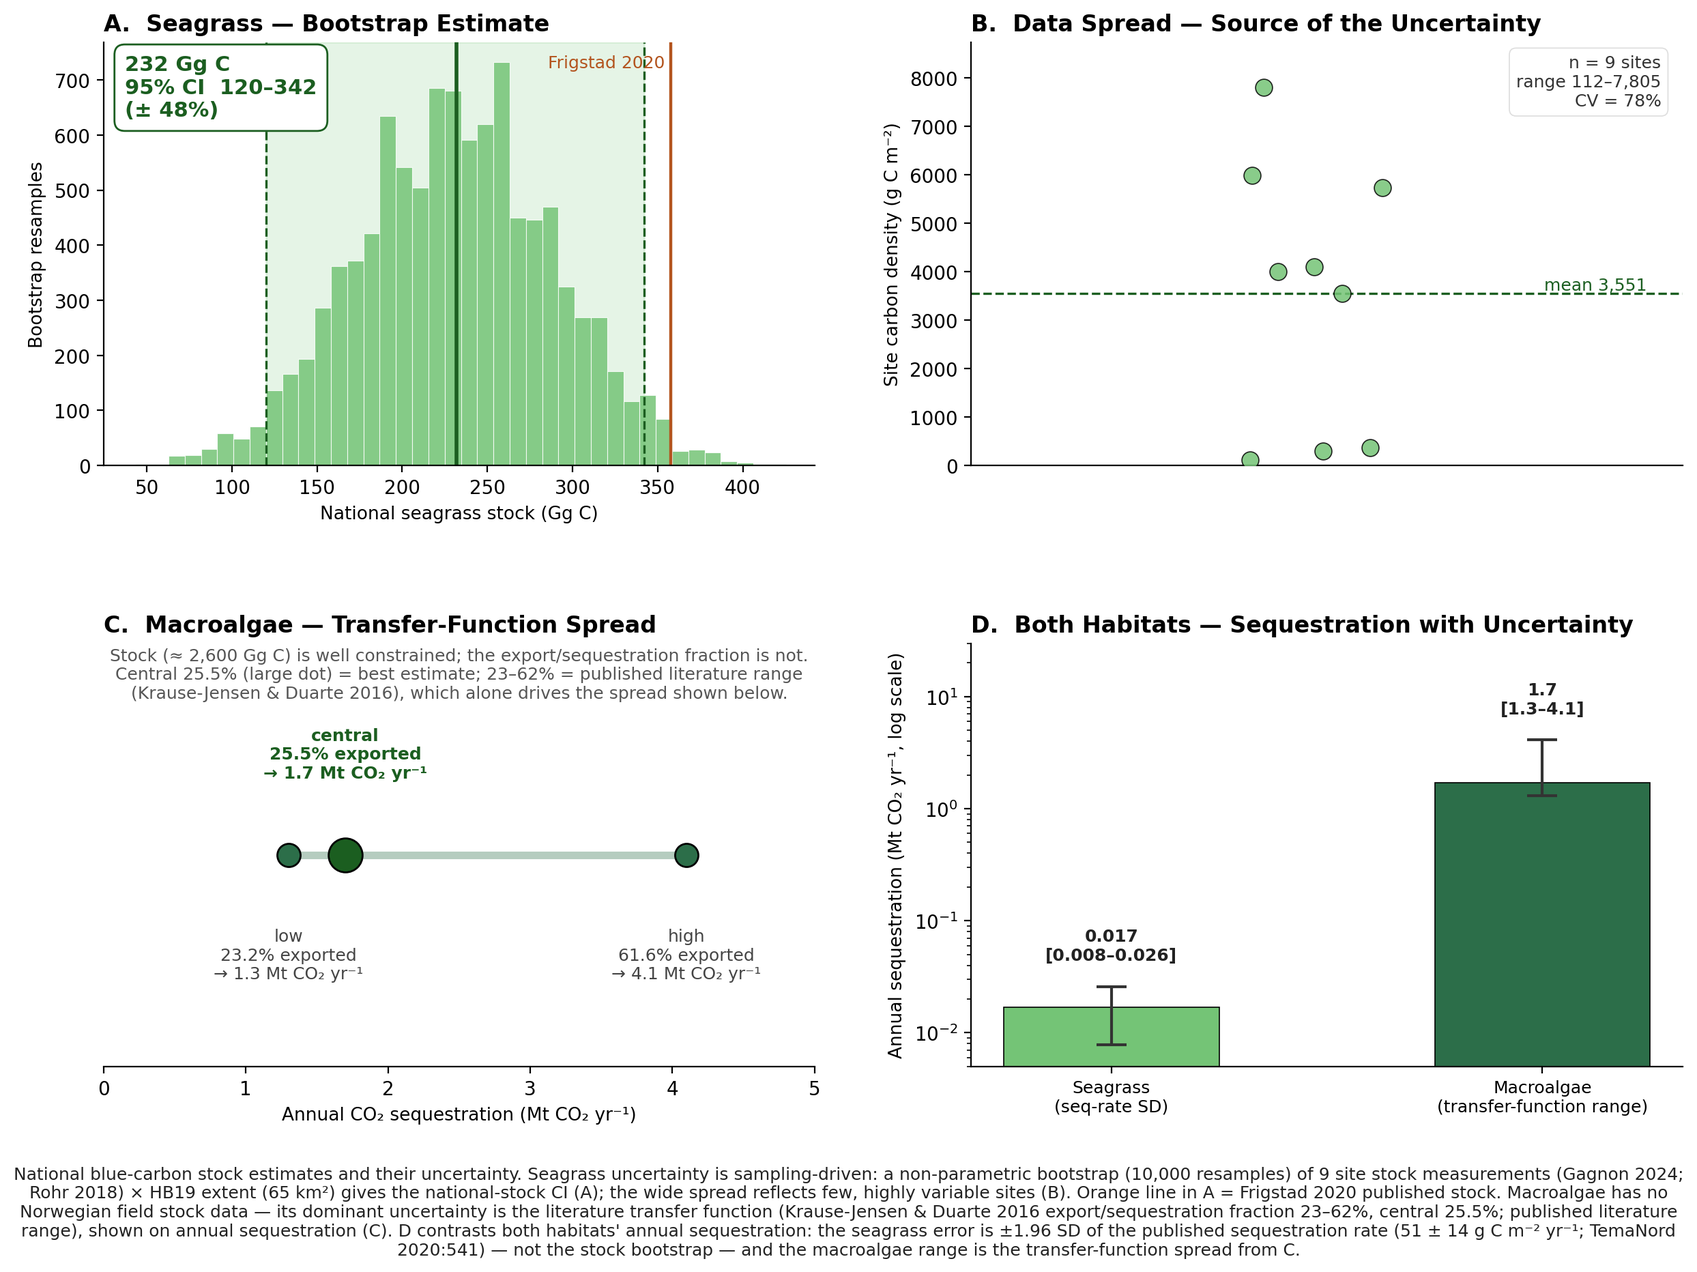
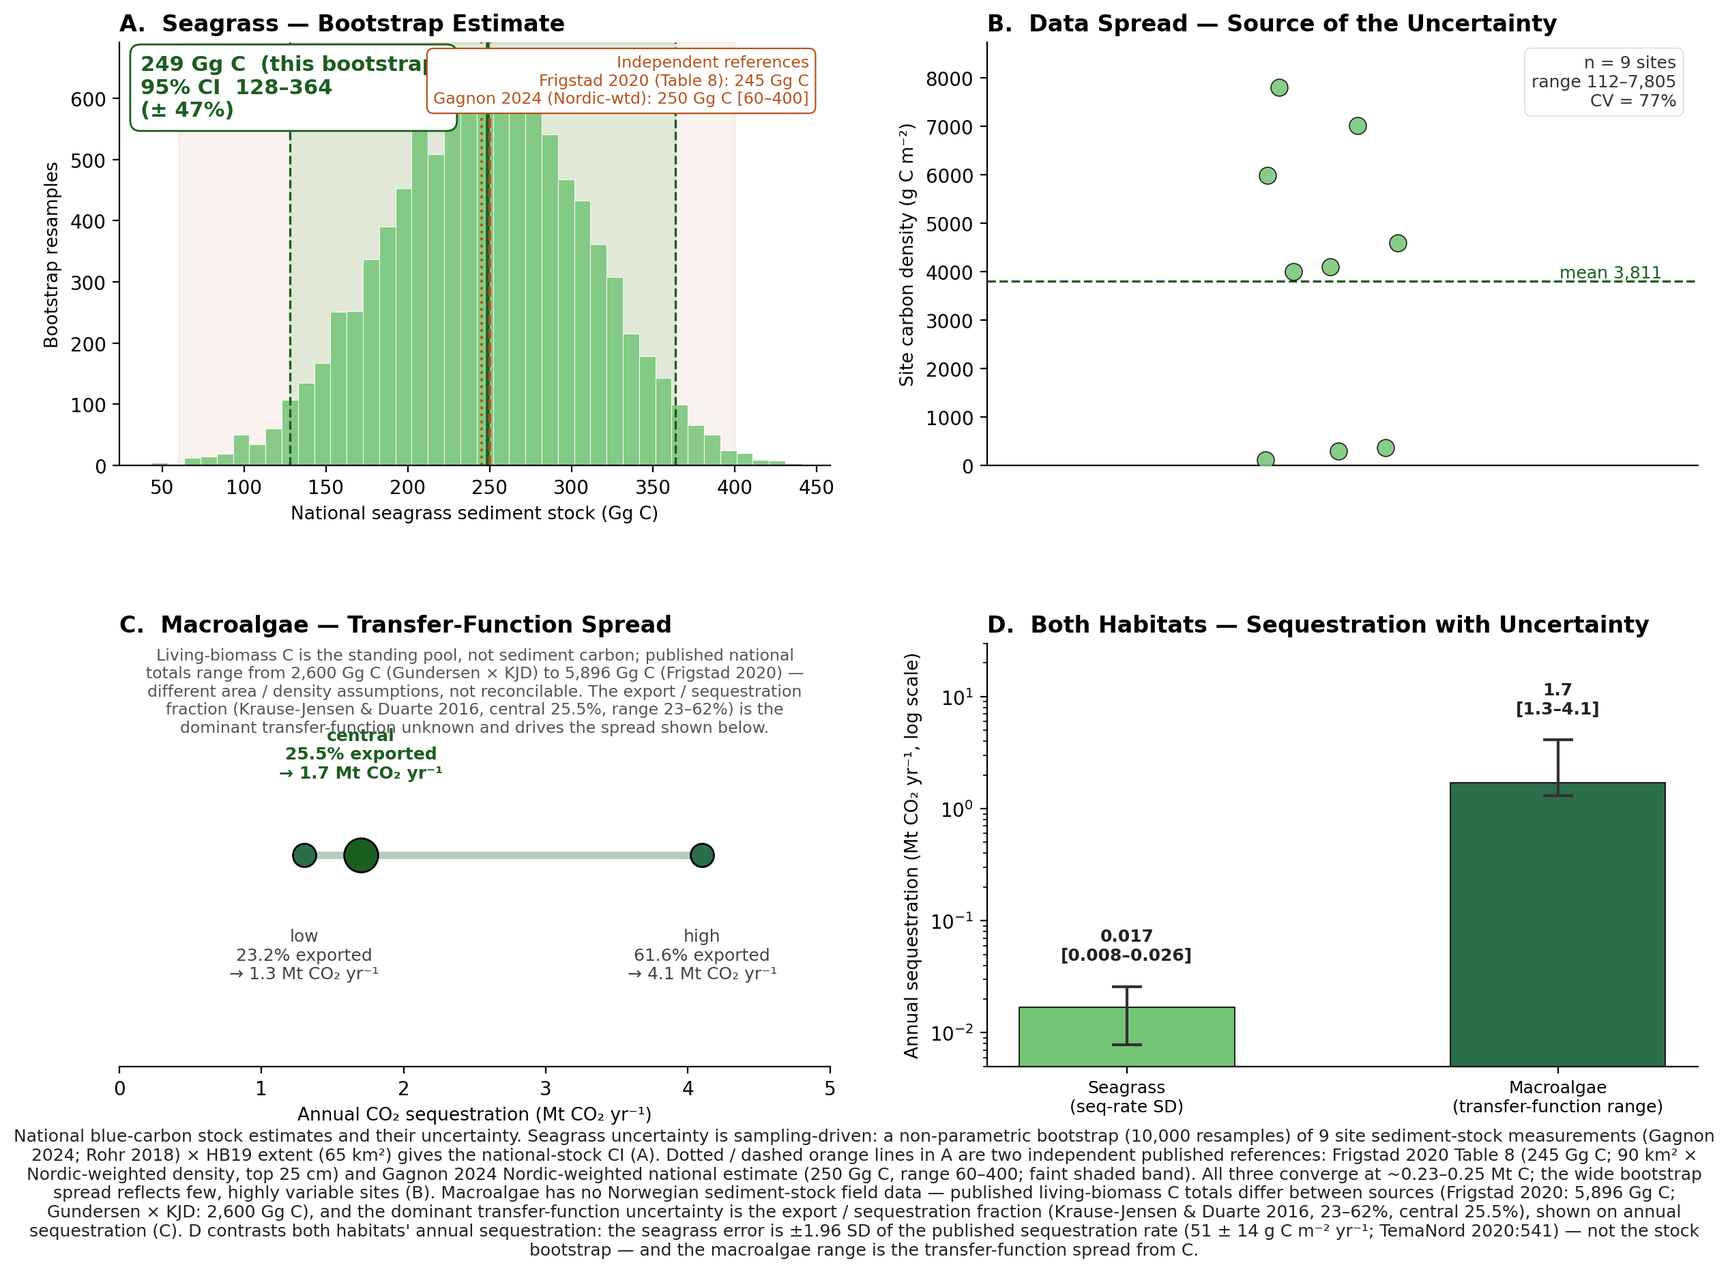
Fix carbon-pool attribution in fig09 + fig11
Two errors corrected:

(1) Seagrass sediment stock. The 357.6 Gg C value attributed to
'Frigstad 2020' in figs 2/3 is a bottom-up calculation from this
study (Gagnon pooled mean × 90 km²); 357.6 appears nowhere in
Frigstad. Frigstad 2020 Table 8 actually reports 245 Gg C
(Nordic-weighted density × 90 km², top 25 cm). The bootstrap headline
(248.9 Gg C [128–364]) lands on Frigstad's real 245 and on Gagnon
2024's independent Nordic-weighted national estimate (250 Gg C,
range 60–400) — three-way triangulation at ~0.23–0.25 Mt C.
Fig 09 panel A now shows the bootstrap as the headline with
Frigstad / Gagnon as independent reference lines; fig 11 panel A
uses the bootstrap headline with the same two references.

(2) Macroalgae stock. The 2,600 Gg C value was Gundersen 2021 area
× Krause-Jensen & Duarte 2016 transfer function, an areal proxy
that is not reconcilable with Frigstad 2020's living-biomass total
(5,896 Gg C = kelp 4,969 + rockweed 927) — different area layer,
different biomass-density assumptions. Frigstad is now the primary
macroalgae headline, explicitly labeled 'living biomass C' (not
sediment stock); the Gundersen × KJD value is retained as an
alternative areal reference. Fig 09 panel C text and fig 11 panel
A title + labels updated to make the distinction explicit.

Regional macroalgae disaggregation in carbon_stock_estimates.csv
still uses the Gundersen areal density because no per-region split
exists for Frigstad's national living-biomass total; this is now
[…]

diff --git a/scripts/figure_carbon_stocks.py b/scripts/figure_carbon_stocks.py
@@ -55,9 +55,22 @@ SEAGRASS_EXTENT_KM2_MODELED = 90.0
 # Gundersen 2021 macroalgae national modelled extent (km^2).
 MACROALGAE_EXTENT_KM2_GUNDERSEN = 5355.0
 
-# Macroalgae national stock (kt C). From step2_national_sequestration.csv:
-# Krause-Jensen & Duarte 2016 transfer function * Gundersen 2021 area.
-MACROALGAE_NATIONAL_STOCK_KT_C = 2600.0
+# Published seagrass sediment-stock benchmarks (Gg C, top 50/25 cm at source).
+# Used as independent reference points against the bootstrap, NOT as the headline.
+SEAGRASS_STOCK_FRIGSTAD_GG_C = 245.0        # Frigstad 2020 Table 8: 90 km² x ~2,722 g C m-2 Nordic-weighted, top 25 cm
+SEAGRASS_STOCK_GAGNON_GG_C = 250.0          # Gagnon 2024 Nordic-weighted national: 0.25 Mt C
+SEAGRASS_STOCK_GAGNON_RANGE_GG_C = (60.0, 400.0)  # Gagnon 2024 published range
+
+# Macroalgae national LIVING-BIOMASS stock (Gg C). Primary source:
+# Frigstad 2020 (kelp 4,969 + rockweed 927 = 5,896 Gg C). This is biomass C,
+# not sediment carbon stock — the two cannot be combined.
+MACROALGAE_LIVING_BIOMASS_FRIGSTAD_GG_C = 5896.0
+MACROALGAE_LIVING_BIOMASS_KELP_GG_C = 4969.0
+MACROALGAE_LIVING_BIOMASS_ROCKWEED_GG_C = 927.0
+# Alternative reference: Gundersen 2021 extent × Krause-Jensen & Duarte 2016
+# transfer function = 2,600 Gg C (different area + density assumptions; shown
+# for context only).
+MACROALGAE_LIVING_BIOMASS_GUNDERSEN_GG_C = 2600.0
 MACROALGAE_SEQ_MT_CO2_YR = 1.7
 MACROALGAE_SEQ_MT_CO2_YR_RANGE = (0.36 * 44 / 12 * 1.0,
                                   4.1 * 44 / 12 * 1.0 / 10)  # placeholder; see step2
@@ -159,7 +172,12 @@ def fig09_bootstrap(sg: pd.DataFrame, hb19: pd.DataFrame, out: Path) -> dict:
     fig, axes = plt.subplots(2, 2, figsize=(13, 9.5))
     xs = np.arange(2)
 
-    # (A) Seagrass bootstrap distribution
+    # (A) Seagrass bootstrap distribution.
+    # Two independent published benchmarks shown as reference lines: Frigstad
+    # 2020 Table 8 (245 Gg C; 90 km² × ~2,722 g C m⁻² Nordic-weighted, top 25 cm)
+    # and Gagnon 2024 Nordic-weighted national estimate (250 Gg C, range 60–400).
+    # The bootstrap (this study) is the headline; the references show three-way
+    # triangulation at ~0.23–0.25 Mt C.
     ax = axes[0, 0]
     ax.hist(national_kt_c, bins=40, color=sg_color, alpha=0.85,
             edgecolor="white", linewidth=0.4)
@@ -168,17 +186,33 @@ def fig09_bootstrap(sg: pd.DataFrame, hb19: pd.DataFrame, out: Path) -> dict:
     ax.axvline(median, color=dark, linewidth=2.0)
     for v in (ci_low, ci_high):
         ax.axvline(v, color=dark, linestyle="--", linewidth=1.2)
-    ax.axvline(357.6, color=pub_color, linewidth=1.6)
-    ax.set_xlim(right=max(float(national_kt_c.max()), 357.6) * 1.04)
+    # Gagnon Nordic-weighted range as a faint shaded band; Frigstad + Gagnon
+    # central estimates as thin reference lines (they fall ~5 Gg C apart).
+    gag_lo, gag_hi = SEAGRASS_STOCK_GAGNON_RANGE_GG_C
+    ax.axvspan(gag_lo, gag_hi, color=pub_color, alpha=0.07, zorder=0)
+    ax.axvline(SEAGRASS_STOCK_FRIGSTAD_GG_C, color=pub_color,
+               linewidth=1.4, linestyle=":")
+    ax.axvline(SEAGRASS_STOCK_GAGNON_GG_C, color=pub_color,
+               linewidth=1.4, linestyle="--")
+    ax.set_xlim(right=max(float(national_kt_c.max()),
+                          SEAGRASS_STOCK_GAGNON_RANGE_GG_C[1]) * 1.04)
     ax.text(0.03, 0.97,
-            f"{median:,.0f} Gg C\n95% CI  {ci_low:,.0f}–{ci_high:,.0f}\n"
+            f"{median:,.0f} Gg C  (this bootstrap)\n95% CI  {ci_low:,.0f}–{ci_high:,.0f}\n"
             f"(± {(ci_high - ci_low) / 2 / median * 100:.0f}%)",
             transform=ax.transAxes, va="top", ha="left", fontsize=11,
             fontweight="bold", color=dark,
             bbox=dict(facecolor="white", edgecolor=dark, boxstyle="round,pad=0.5", linewidth=1.0))
-    ax.text(357.6, ymax_a * 0.97, "Frigstad 2020 ", color=pub_color,
-            fontsize=9, ha="right", va="top")
-    ax.set_xlabel("National seagrass stock (Gg C)", fontsize=9.5)
+    # Reference-line labels stacked top-right so they don't collide with the headline box.
+    ax.text(0.97, 0.97,
+            f"Independent references\n"
+            f"Frigstad 2020 (Table 8): {SEAGRASS_STOCK_FRIGSTAD_GG_C:.0f} Gg C\n"
+            f"Gagnon 2024 (Nordic-wtd): {SEAGRASS_STOCK_GAGNON_GG_C:.0f} Gg C "
+            f"[{gag_lo:.0f}–{gag_hi:.0f}]",
+            transform=ax.transAxes, va="top", ha="right", fontsize=8.5,
+            color=pub_color,
+            bbox=dict(facecolor="white", edgecolor=pub_color,
+                      boxstyle="round,pad=0.4", linewidth=0.8))
+    ax.set_xlabel("National seagrass sediment stock (Gg C)", fontsize=9.5)
     ax.set_ylabel("Bootstrap resamples", fontsize=9.5)
     ax.set_title("A.  Seagrass — Bootstrap Estimate", loc="left",
                  fontweight="bold", fontsize=12)
@@ -237,10 +271,12 @@ def fig09_bootstrap(sg: pd.DataFrame, hb19: pd.DataFrame, out: Path) -> dict:
     ax.set_title("C.  Macroalgae — Transfer-Function Spread", loc="left",
                  fontweight="bold", fontsize=12)
     ax.text(0.5, 0.99,
-            "Stock (≈ 2,600 Gg C) is well constrained; the export/sequestration fraction is not.\n"
-            "Central 25.5% (large dot) = best estimate; 23–62% = published literature range\n"
-            "(Krause-Jensen & Duarte 2016), which alone drives the spread shown below.",
-            transform=ax.transAxes, va="top", ha="center", fontsize=9, color="#555")
+            "Living-biomass C is the standing pool, not sediment carbon; published national\n"
+            "totals range from 2,600 Gg C (Gundersen × KJD) to 5,896 Gg C (Frigstad 2020) —\n"
+            "different area / density assumptions, not reconcilable. The export / sequestration\n"
+            "fraction (Krause-Jensen & Duarte 2016, central 25.5%, range 23–62%) is the\n"
+            "dominant transfer-function unknown and drives the spread shown below.",
+            transform=ax.transAxes, va="top", ha="center", fontsize=8.5, color="#555")
     ax.spines["left"].set_visible(False)
     _clean(ax)
 
@@ -274,15 +310,20 @@ def fig09_bootstrap(sg: pd.DataFrame, hb19: pd.DataFrame, out: Path) -> dict:
     add_caption(
         fig,
         f"National blue-carbon stock estimates and their uncertainty. Seagrass uncertainty is sampling-driven: "
-        f"a non-parametric bootstrap ({BOOTSTRAP_N:,} resamples) of {len(site_vals)} site stock measurements "
-        f"(Gagnon 2024; Rohr 2018) × HB19 extent ({seagrass_extent_km2:.0f} km²) gives the national-stock CI (A); "
-        "the wide spread reflects few, highly variable sites (B). Orange line in A = Frigstad 2020 published stock. "
-        "Macroalgae has no Norwegian field stock data — its dominant uncertainty is the literature transfer "
-        f"function (Krause-Jensen & Duarte 2016 export/sequestration fraction {frac_lo:.0f}–{frac_hi:.0f}%, central "
-        f"{frac_mid:.1f}%; published literature range), shown on annual sequestration (C). D contrasts both habitats' "
-        "annual sequestration: the seagrass error is ±1.96 SD of the published sequestration rate (51 ± 14 g C m⁻² "
-        "yr⁻¹; TemaNord 2020:541) — not the stock bootstrap — and the macroalgae range is the transfer-function "
-        "spread from C.",
+        f"a non-parametric bootstrap ({BOOTSTRAP_N:,} resamples) of {len(site_vals)} site sediment-stock "
+        f"measurements (Gagnon 2024; Rohr 2018) × HB19 extent ({seagrass_extent_km2:.0f} km²) gives the "
+        f"national-stock CI (A). Dotted / dashed orange lines in A are two independent published references: "
+        f"Frigstad 2020 Table 8 ({SEAGRASS_STOCK_FRIGSTAD_GG_C:.0f} Gg C; 90 km² × Nordic-weighted density, top "
+        f"25 cm) and Gagnon 2024 Nordic-weighted national estimate ({SEAGRASS_STOCK_GAGNON_GG_C:.0f} Gg C, range "
+        f"{SEAGRASS_STOCK_GAGNON_RANGE_GG_C[0]:.0f}–{SEAGRASS_STOCK_GAGNON_RANGE_GG_C[1]:.0f}; faint shaded band). "
+        "All three converge at ~0.23–0.25 Mt C; the wide bootstrap spread reflects few, highly variable sites (B). "
+        "Macroalgae has no Norwegian sediment-stock field data — published living-biomass C totals differ between "
+        f"sources (Frigstad 2020: {MACROALGAE_LIVING_BIOMASS_FRIGSTAD_GG_C:,.0f} Gg C; Gundersen × KJD: "
+        f"{MACROALGAE_LIVING_BIOMASS_GUNDERSEN_GG_C:,.0f} Gg C), and the dominant transfer-function uncertainty is "
+        f"the export / sequestration fraction (Krause-Jensen & Duarte 2016, {frac_lo:.0f}–{frac_hi:.0f}%, central "
+        f"{frac_mid:.1f}%), shown on annual sequestration (C). D contrasts both habitats' annual sequestration: "
+        "the seagrass error is ±1.96 SD of the published sequestration rate (51 ± 14 g C m⁻² yr⁻¹; TemaNord "
+        "2020:541) — not the stock bootstrap — and the macroalgae range is the transfer-function spread from C.",
         y=0.012, fontsize=9)
     fig.subplots_adjust(left=0.08, right=0.97, top=0.95, bottom=0.16, hspace=0.42, wspace=0.22)
     fig.savefig(out, dpi=200, bbox_inches="tight")
@@ -299,17 +340,26 @@ def fig09_bootstrap(sg: pd.DataFrame, hb19: pd.DataFrame, out: Path) -> dict:
 # ---------------------------------------------------------------------------
 # fig11: balance sheet
 # ---------------------------------------------------------------------------
-def fig11_balance_sheet(sg: pd.DataFrame, hb19: pd.DataFrame, out: Path) -> None:
+def fig11_balance_sheet(sg: pd.DataFrame, hb19: pd.DataFrame,
+                        bootstrap_summary: dict, out: Path) -> None:
     sg_color, ma_color = ECO_COLORS["seagrass"], ECO_COLORS["macroalgae"]
+    pub_color, dark = "#b3541e", "#1b5e20"
 
-    # National carbon stocks from the published sources (Gg C), not a bootstrap:
-    #   seagrass   - Frigstad 2020 national estimate
-    #   macroalgae - Gundersen 2021 extent x Krause-Jensen & Duarte 2016 transfer fn
+    # National carbon-pool headlines (Gg C):
+    #   seagrass   - SEDIMENT stock from this study's bootstrap (Gagnon 2024;
+    #                Rohr 2018 × HB19 extent), with Frigstad 2020 Table 8
+    #                (245) and Gagnon 2024 Nordic-weighted (250 [60-400])
+    #                shown as independent triangulation.
+    #   macroalgae - LIVING BIOMASS C, not sediment stock. Frigstad 2020 is the
+    #                primary headline (kelp 4,969 + rockweed 927 = 5,896 Gg C);
+    #                Gundersen × KJD areal (2,600 Gg C) is a non-reconcilable
+    #                alternative based on different area + density assumptions.
+    sg_stock_gg = float(bootstrap_summary["pooled_median_kt_c"])
+    sg_stock_lo = float(bootstrap_summary["pooled_ci_low"])
+    sg_stock_hi = float(bootstrap_summary["pooled_ci_high"])
+    ma_stock_gg = MACROALGAE_LIVING_BIOMASS_FRIGSTAD_GG_C
+    ma_alt_gg = MACROALGAE_LIVING_BIOMASS_GUNDERSEN_GG_C
     nat = load_national_seq().set_index("ecosystem")
-    sg_stock_gg = float(nat.loc["seagrass", "stock_gg_c"])
-    ma_stock_gg = float(nat.loc["macroalgae", "stock_gg_c"])
-    ma_stock_lo = float(nat.loc["macroalgae", "stock_mt_c_ci_low"]) * 1000.0
-    ma_stock_hi = float(nat.loc["macroalgae", "stock_mt_c_ci_high"]) * 1000.0
 
     # Regional seagrass stock = regional mean sediment density (Gagnon 2024;
     # Rohr 2018, by region) x HB19 mapped seagrass area for that region.
@@ -333,21 +383,59 @@ def fig11_balance_sheet(sg: pd.DataFrame, hb19: pd.DataFrame, out: Path) -> None
         ax.spines["top"].set_visible(False)
         ax.spines["right"].set_visible(False)
 
-    # (A) National carbon stock — published source values
+    # (A) National carbon pool — sediment (seagrass) vs living biomass (macroalgae).
+    # NOTE: the two bars are NOT directly comparable: seagrass is a sediment
+    # carbon stock (long-term storage); macroalgae is standing-biomass C
+    # (annual turnover pool). The panel title and labels say so explicitly.
     ax = axes[0, 0]
     stocks = [sg_stock_gg, ma_stock_gg]
-    yerr = [[0.0, ma_stock_gg - ma_stock_lo], [0.0, ma_stock_hi - ma_stock_gg]]
+    yerr = [[sg_stock_gg - sg_stock_lo, 0.0], [sg_stock_hi - sg_stock_gg, 0.0]]
     bars = ax.bar(eco, stocks, yerr=yerr, capsize=6, color=eco_cols,
-                  edgecolor="black", linewidth=0.6)
+                  edgecolor="black", linewidth=0.6,
+                  error_kw=dict(elinewidth=1.4, capthick=1.4, ecolor="#333"))
     ax.set_yscale("log")
-    ax.set_ylim(top=ma_stock_gg * 5)
-    for b, lbl in zip(bars,
-                      [f"{sg_stock_gg:,.0f} Gg C\n(Frigstad 2020)",
-                       f"{ma_stock_gg:,.0f} Gg C\n[{ma_stock_lo:,.0f}–{ma_stock_hi:,.0f}]"]):
-        ax.text(b.get_x() + b.get_width() / 2, b.get_height() * 1.35, lbl,
-                ha="center", va="bottom", fontsize=9)
-    ax.set_ylabel("Stored carbon (Gg C, log scale)", fontsize=9.5)
-    ax.set_title("A.  National Carbon Stock", loc="left", fontweight="bold", fontsize=12)
+    ax.set_ylim(top=ma_stock_gg * 6)
+    # Bar value labels: bootstrap headline for seagrass; Frigstad breakdown for macroalgae.
+    labels = [
+        (f"{sg_stock_gg:,.0f} Gg C  (this bootstrap)\n"
+         f"95% CI  {sg_stock_lo:,.0f}–{sg_stock_hi:,.0f}\n"
+         f"Sediment stock"),
+        (f"{ma_stock_gg:,.0f} Gg C  (Frigstad 2020)\n"
+         f"kelp {MACROALGAE_LIVING_BIOMASS_KELP_GG_C:,.0f} + rockweed "
+         f"{MACROALGAE_LIVING_BIOMASS_ROCKWEED_GG_C:,.0f}\n"
+         f"Living biomass"),
+    ]
+    label_tops = [sg_stock_hi, ma_stock_gg]
+    for b, lbl, top in zip(bars, labels, label_tops):
+        ax.text(b.get_x() + b.get_width() / 2, top * 1.35,
+                lbl, ha="center", va="bottom", fontsize=8.5)
+    # Independent reference lines: Frigstad/Gagnon for seagrass (just above
+    # bar 0); Gundersen × KJD alternative for macroalgae (just above bar 1).
+    bar0_x = bars[0].get_x()
+    bar0_w = bars[0].get_width()
+    ax.hlines(SEAGRASS_STOCK_FRIGSTAD_GG_C,
+              bar0_x - 0.03, bar0_x + bar0_w + 0.03,
+              color=pub_color, linewidth=1.4, linestyle=":")
+    ax.hlines(SEAGRASS_STOCK_GAGNON_GG_C,
+              bar0_x - 0.03, bar0_x + bar0_w + 0.03,
+              color=pub_color, linewidth=1.4, linestyle="--")
+    bar1_x = bars[1].get_x()
+    bar1_w = bars[1].get_width()
+    ax.hlines(ma_alt_gg, bar1_x - 0.03, bar1_x + bar1_w + 0.03,
+              color=pub_color, linewidth=1.4, linestyle="--")
+    # Anchored legend describing the three reference lines (white box, mid-left
+    # so it sits between the two bars without overlapping either).
+    ax.text(0.5, 0.05,
+            f"··· Frigstad 2020 ({SEAGRASS_STOCK_FRIGSTAD_GG_C:.0f})\n"
+            f"– – Gagnon 2024 Nordic-wtd ({SEAGRASS_STOCK_GAGNON_GG_C:.0f})\n"
+            f"– – Gundersen × KJD ({ma_alt_gg:,.0f}; alt. macroalgae)",
+            transform=ax.transAxes, va="bottom", ha="center",
+            fontsize=7.5, color=pub_color,
+            bbox=dict(facecolor="white", edgecolor=pub_color,
+                      boxstyle="round,pad=0.35", linewidth=0.6))
+    ax.set_ylabel("Carbon pool (Gg C, log scale)", fontsize=9.5)
+    ax.set_title("A.  National Carbon Pool  (sediment vs. living biomass)",
+                 loc="left", fontweight="bold", fontsize=12)
     _clean(ax)
 
     # (B) Annual CO2 sequestration
@@ -417,15 +505,20 @@ def fig11_balance_sheet(sg: pd.DataFrame, hb19: pd.DataFrame, out: Path) -> None
 
     add_caption(
         fig,
-        "Norwegian blue-carbon balance sheet: stock, annual sequestration, and value. "
-        "National stocks (A) are published source values: seagrass 357.6 Gg C (Frigstad et al. 2020); "
-        "macroalgae 2,600 Gg C (Gundersen et al. 2021 × Krause-Jensen & Duarte 2016; 95% CI shown). "
-        "Regional seagrass stocks (D) = regional mean sediment density (Gagnon 2024; Rohr 2018) × HB19 mapped "
-        "area, and need not sum to the national total; Barents Sea and Norwegian Sea each rest on a single "
-        "measured site, so the low Barents value reflects one shallow, low-carbon site. "
-        "Sequestration (B): Frigstad 2020 (seagrass); Krause-Jensen export-fraction 23–62% (macroalgae). "
-        "Value (C) = annual CO₂ sequestration (B) × carbon price, in USD — "
-        "EU ETS 2024 (€65), US Social Cost of Carbon 2023 ($190), Voluntary blue-carbon ($20) per tCO₂.",
+        "Norwegian blue-carbon balance sheet: carbon pool, annual sequestration, and value. "
+        "Panel A bars are different carbon types and not directly comparable: seagrass = sediment stock "
+        f"({sg_stock_gg:,.0f} Gg C, this bootstrap; 95% CI {sg_stock_lo:,.0f}–{sg_stock_hi:,.0f}), with "
+        f"Frigstad 2020 Table 8 ({SEAGRASS_STOCK_FRIGSTAD_GG_C:.0f} Gg C; dotted) and Gagnon 2024 Nordic-weighted "
+        f"({SEAGRASS_STOCK_GAGNON_GG_C:.0f} Gg C; dashed) as independent references — three-way triangulation "
+        f"at ~0.23–0.25 Mt C. Macroalgae = living biomass C ({ma_stock_gg:,.0f} Gg C, Frigstad 2020: kelp "
+        f"{MACROALGAE_LIVING_BIOMASS_KELP_GG_C:,.0f} + rockweed {MACROALGAE_LIVING_BIOMASS_ROCKWEED_GG_C:,.0f}); "
+        f"Gundersen 2021 × KJD areal alternative ({ma_alt_gg:,.0f} Gg C; dashed) uses different area + density "
+        "assumptions and is not reconcilable with Frigstad. Regional seagrass stocks (D) = regional mean sediment "
+        "density (Gagnon 2024; Rohr 2018) × HB19 mapped area, and need not sum to the national total; Barents Sea "
+        "and Norwegian Sea each rest on a single measured site, so the low Barents value reflects one shallow, "
+        "low-carbon site. Sequestration (B): TemaNord 2020:541 (seagrass); Krause-Jensen export-fraction 23–62% "
+        "(macroalgae). Value (C) = annual CO₂ sequestration (B) × carbon price, in USD — EU ETS 2024 (€65), "
+        "US Social Cost of Carbon 2023 ($190), Voluntary blue-carbon ($20) per tCO₂.",
         y=0.012, fontsize=9)
     fig.subplots_adjust(left=0.07, right=0.97, top=0.95, bottom=0.16, hspace=0.45, wspace=0.24)
     fig.savefig(out, dpi=200, bbox_inches="tight")
@@ -437,7 +530,12 @@ def fig11_balance_sheet(sg: pd.DataFrame, hb19: pd.DataFrame, out: Path) -> None
 # ---------------------------------------------------------------------------
 def stats_csv(sg: pd.DataFrame, hb19: pd.DataFrame, bootstrap_summary: dict, out: Path) -> None:
     pooled_means = bootstrap_pooled_mean(sg["carbon_stock_g_m2"].values)
-    macroalgae_density = MACROALGAE_NATIONAL_STOCK_KT_C / MACROALGAE_EXTENT_KM2_GUNDERSEN * 1000.0
+    # Regional macroalgae disaggregation is areal (no field stock data exists),
+    # so it uses the Gundersen 2021 × KJD areal alternative — NOT the Frigstad
+    # national living-biomass total, which has no per-region split. Labeled in
+    # the CSV's uncertainty_source column.
+    macroalgae_density = (MACROALGAE_LIVING_BIOMASS_GUNDERSEN_GG_C * 1000.0
+                          / MACROALGAE_EXTENT_KM2_GUNDERSEN)
 
     rows = []
     for _, r in hb19.iterrows():
@@ -485,7 +583,8 @@ def main() -> None:
     print(f"HB19 macroalgae extent: {hb19[hb19['ecosystem']=='macroalgae']['habitat_area_km2'].sum():.1f} km^2")
 
     bootstrap_summary = fig09_bootstrap(sg, hb19, OUT_DIR / "fig09_seagrass_bootstrap.png")
-    fig11_balance_sheet(sg, hb19, OUT_DIR / "fig11_carbon_balance_sheet.png")
+    fig11_balance_sheet(sg, hb19, bootstrap_summary,
+                        OUT_DIR / "fig11_carbon_balance_sheet.png")
     stats_csv(sg, hb19, bootstrap_summary, OUT_DIR / "carbon_stock_estimates.csv")
 
     print("\nBootstrap summary:")
